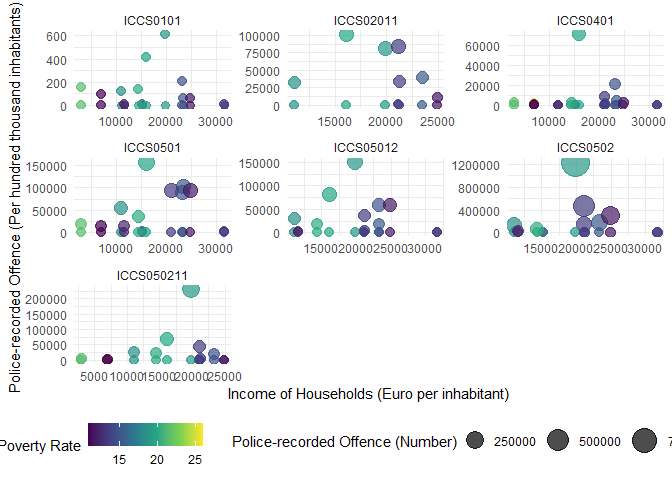
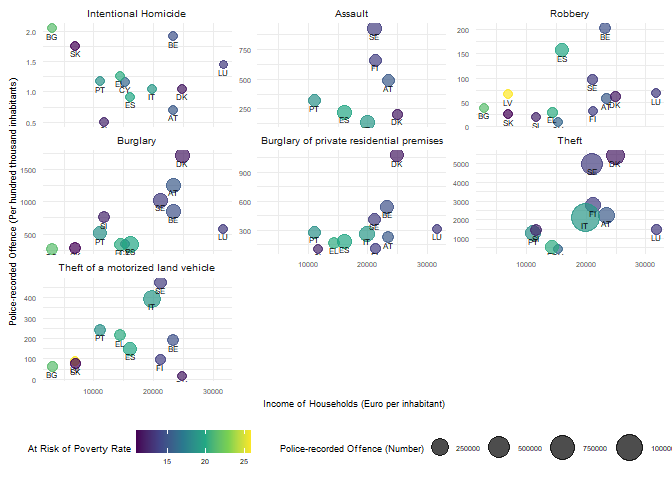
lets go

diff --git a/Projects/YunjiKang/HaasTim.md b/Projects/YunjiKang/HaasTim.md
@@ -19,8 +19,20 @@
 
 Only keep the data for 2019
 
-    Crime_data_1.2 <- subset(Crime_data_1, TIME_PERIOD == "2019",
-                             c("freq", "unit", "iccs", "geo", "TIME_PERIOD", "OBS_VALUE"))
+    library(dplyr)
+
+    ## 
+    ## Attache Paket: 'dplyr'
+
+    ## Die folgenden Objekte sind maskiert von 'package:stats':
+    ## 
+    ##     filter, lag
+
+    ## Die folgenden Objekte sind maskiert von 'package:base':
+    ## 
+    ##     intersect, setdiff, setequal, union
+
+    Crime_data_1.2 <- filter(Crime_data_1, TIME_PERIOD == "2019" )
 
 Plotting
 
@@ -42,18 +54,6 @@ Plotting
     ##     unemp
 
     library(ggplot2)
-    library(dplyr)
-
-    ## 
-    ## Attache Paket: 'dplyr'
-
-    ## Die folgenden Objekte sind maskiert von 'package:stats':
-    ## 
-    ##     filter, lag
-
-    ## Die folgenden Objekte sind maskiert von 'package:base':
-    ## 
-    ##     intersect, setdiff, setequal, union
 
     Ger <- map_data("world") |>  
       filter(region =="Germany")
@@ -80,30 +80,60 @@ lets only look at data from 2008
 
 merge the datasets together by countries
 
-    Household_Income2$Household_Income_EUR_HAB <- Household_Income2$OBS_VALUE
-    Household_Income2 <- subset(Household_Income2, 
-                                select = - c(OBS_VALUE, freq, unit, direct, na_item, TIME_PERIOD))
+    Household_Income2 <-
+      Household_Income2 |> 
+      rename(Household_Income_EUR_HAB = OBS_VALUE) |> 
+      select( - c(freq, unit, direct, na_item, TIME_PERIOD))
 
-    Poverty_rate2$Poverty_rate_PC <- Poverty_rate2$OBS_VALUE
-    Poverty_rate2 <- subset(Poverty_rate2, 
-                                select = - c(OBS_VALUE, freq, unit, TIME_PERIOD))
+    Poverty_rate2 <-
+      Poverty_rate2 |>
+      rename(Poverty_rate_PC = OBS_VALUE) |> 
+      select(- c(freq, unit, TIME_PERIOD))
 
-    Crime_data_finito <- merge(merge(Crime_data_2.1, Household_Income2, by = "geo", all = FALSE), 
-                               Poverty_rate2, by = "geo", all = FALSE)
+    Crime <- Crime_data_2.1 |> 
+     left_join(Household_Income2, by="geo") |> 
+     left_join(Poverty_rate2, by="geo") |>
+      na.omit()
 
-Trying to do the Plot
+Splitting the unit variable by NR and P\_HTHAB. Creating a new data set
+with the observed values from NR and P\_HTHAB in the same row, so we can
+use for y the P\_HTHAB observed values and for the size the NR observed
+value. (before I created this new data set, I tried using a ifelse
+function for “y” and the “size” in the aes function, but it wasn’t
+working. So, there is prob a more elegant way to do it :)
 
-    ggplot(Crime_data_finito, 
-           aes(x = Household_Income_EUR_HAB, y = OBS_VALUE, size = OBS_VALUE, color = Poverty_rate_PC)) +
+    Crime_NR <- subset(Crime, unit == "NR", select = -unit) |> 
+      rename(OBS_VALUE_NR = OBS_VALUE)
+    Crime_P_HTHAB <- subset(Crime, unit == "P_HTHAB", select = -unit) |> 
+      rename(OBS_VALUE_P_HTHAB = OBS_VALUE)
+
+    Crime_merged <- merge(Crime_NR, Crime_P_HTHAB, by = c("geo", "freq", "iccs", "TIME_PERIOD", 
+                                                          "Household_Income_EUR_HAB", "Poverty_rate_PC"))
+
+    ggplot(Crime_merged, 
+           aes(x = Household_Income_EUR_HAB, 
+               y = OBS_VALUE_P_HTHAB, 
+               size = OBS_VALUE_NR, 
+               color = Poverty_rate_PC)) +
       geom_point(alpha = 0.7) +
+      geom_text(aes(label = geo), vjust = 1.5, size = 2, color = "black") +
       scale_size_continuous(range = c(3, 10)) +
       scale_color_viridis_c() +
-      facet_wrap(~iccs, scales = "free", ncol = 3) +
+      facet_wrap(~iccs, scales = "free_y", ncol = 3, 
+                 labeller = labeller(iccs = c(ICCS0101 = "Intentional Homicide", ICCS02011 = "Assault",
+                                              ICCS0401 = "Robbery", ICCS0501 = "Burglary", 
+                                              ICCS05012 = "Burglary of private residential premises",
+                                              ICCS0502 = "Theft", 
+                                              ICCS050211 = "Theft of a motorized land vehicle"))) +
       labs(x = "Income of Households (Euro per inhabitant)",
            y = "Police-recorded Offence (Per hundred thousand inhabitants)",
            size = "Police-recorded Offence (Number)",
            color = "At Risk of Poverty Rate") +
       theme_minimal() +
-      theme(legend.position = "bottom")
+      theme(legend.position = "bottom", 
+            strip.text = element_text(size = 7.5, margin = margin(0, 0, 5, 0)),
+            text = element_text(size = 7))
 
 ![](HaasTim_files/figure-markdown_strict/unnamed-chunk-6-1.png)
+
+            #axis.text.x = element_text(angle = 45, hjust = 1))
